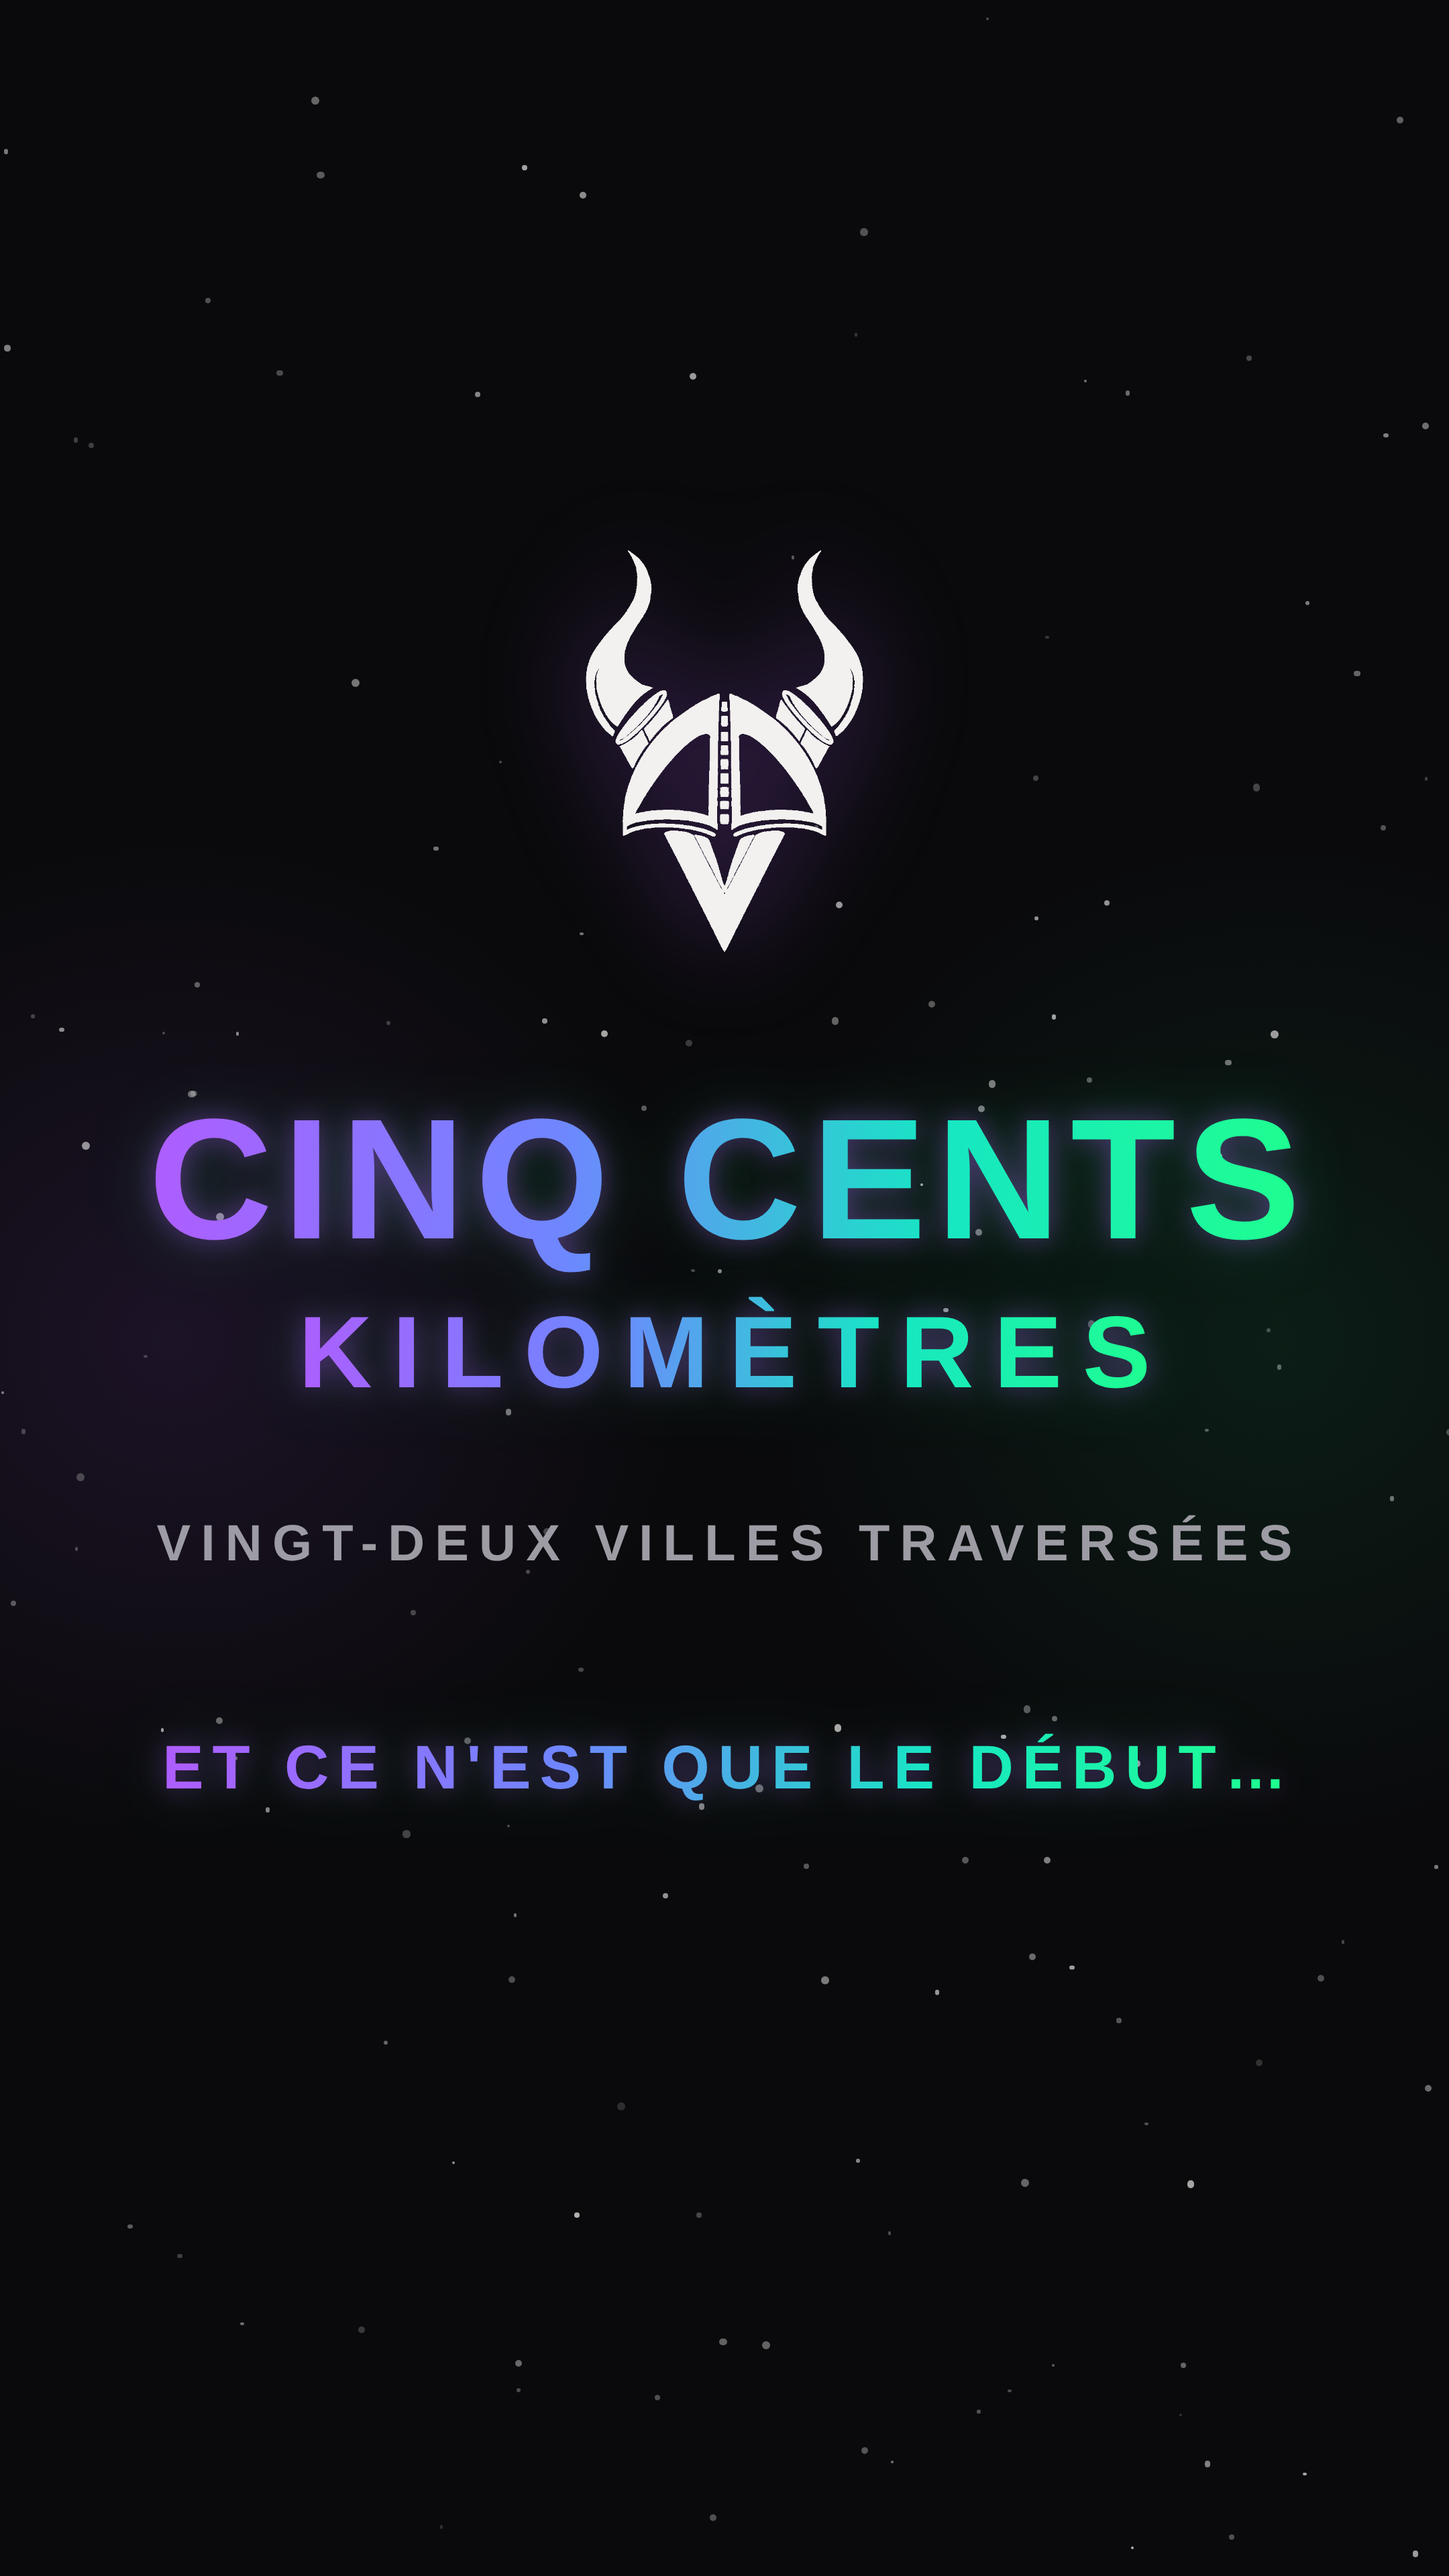
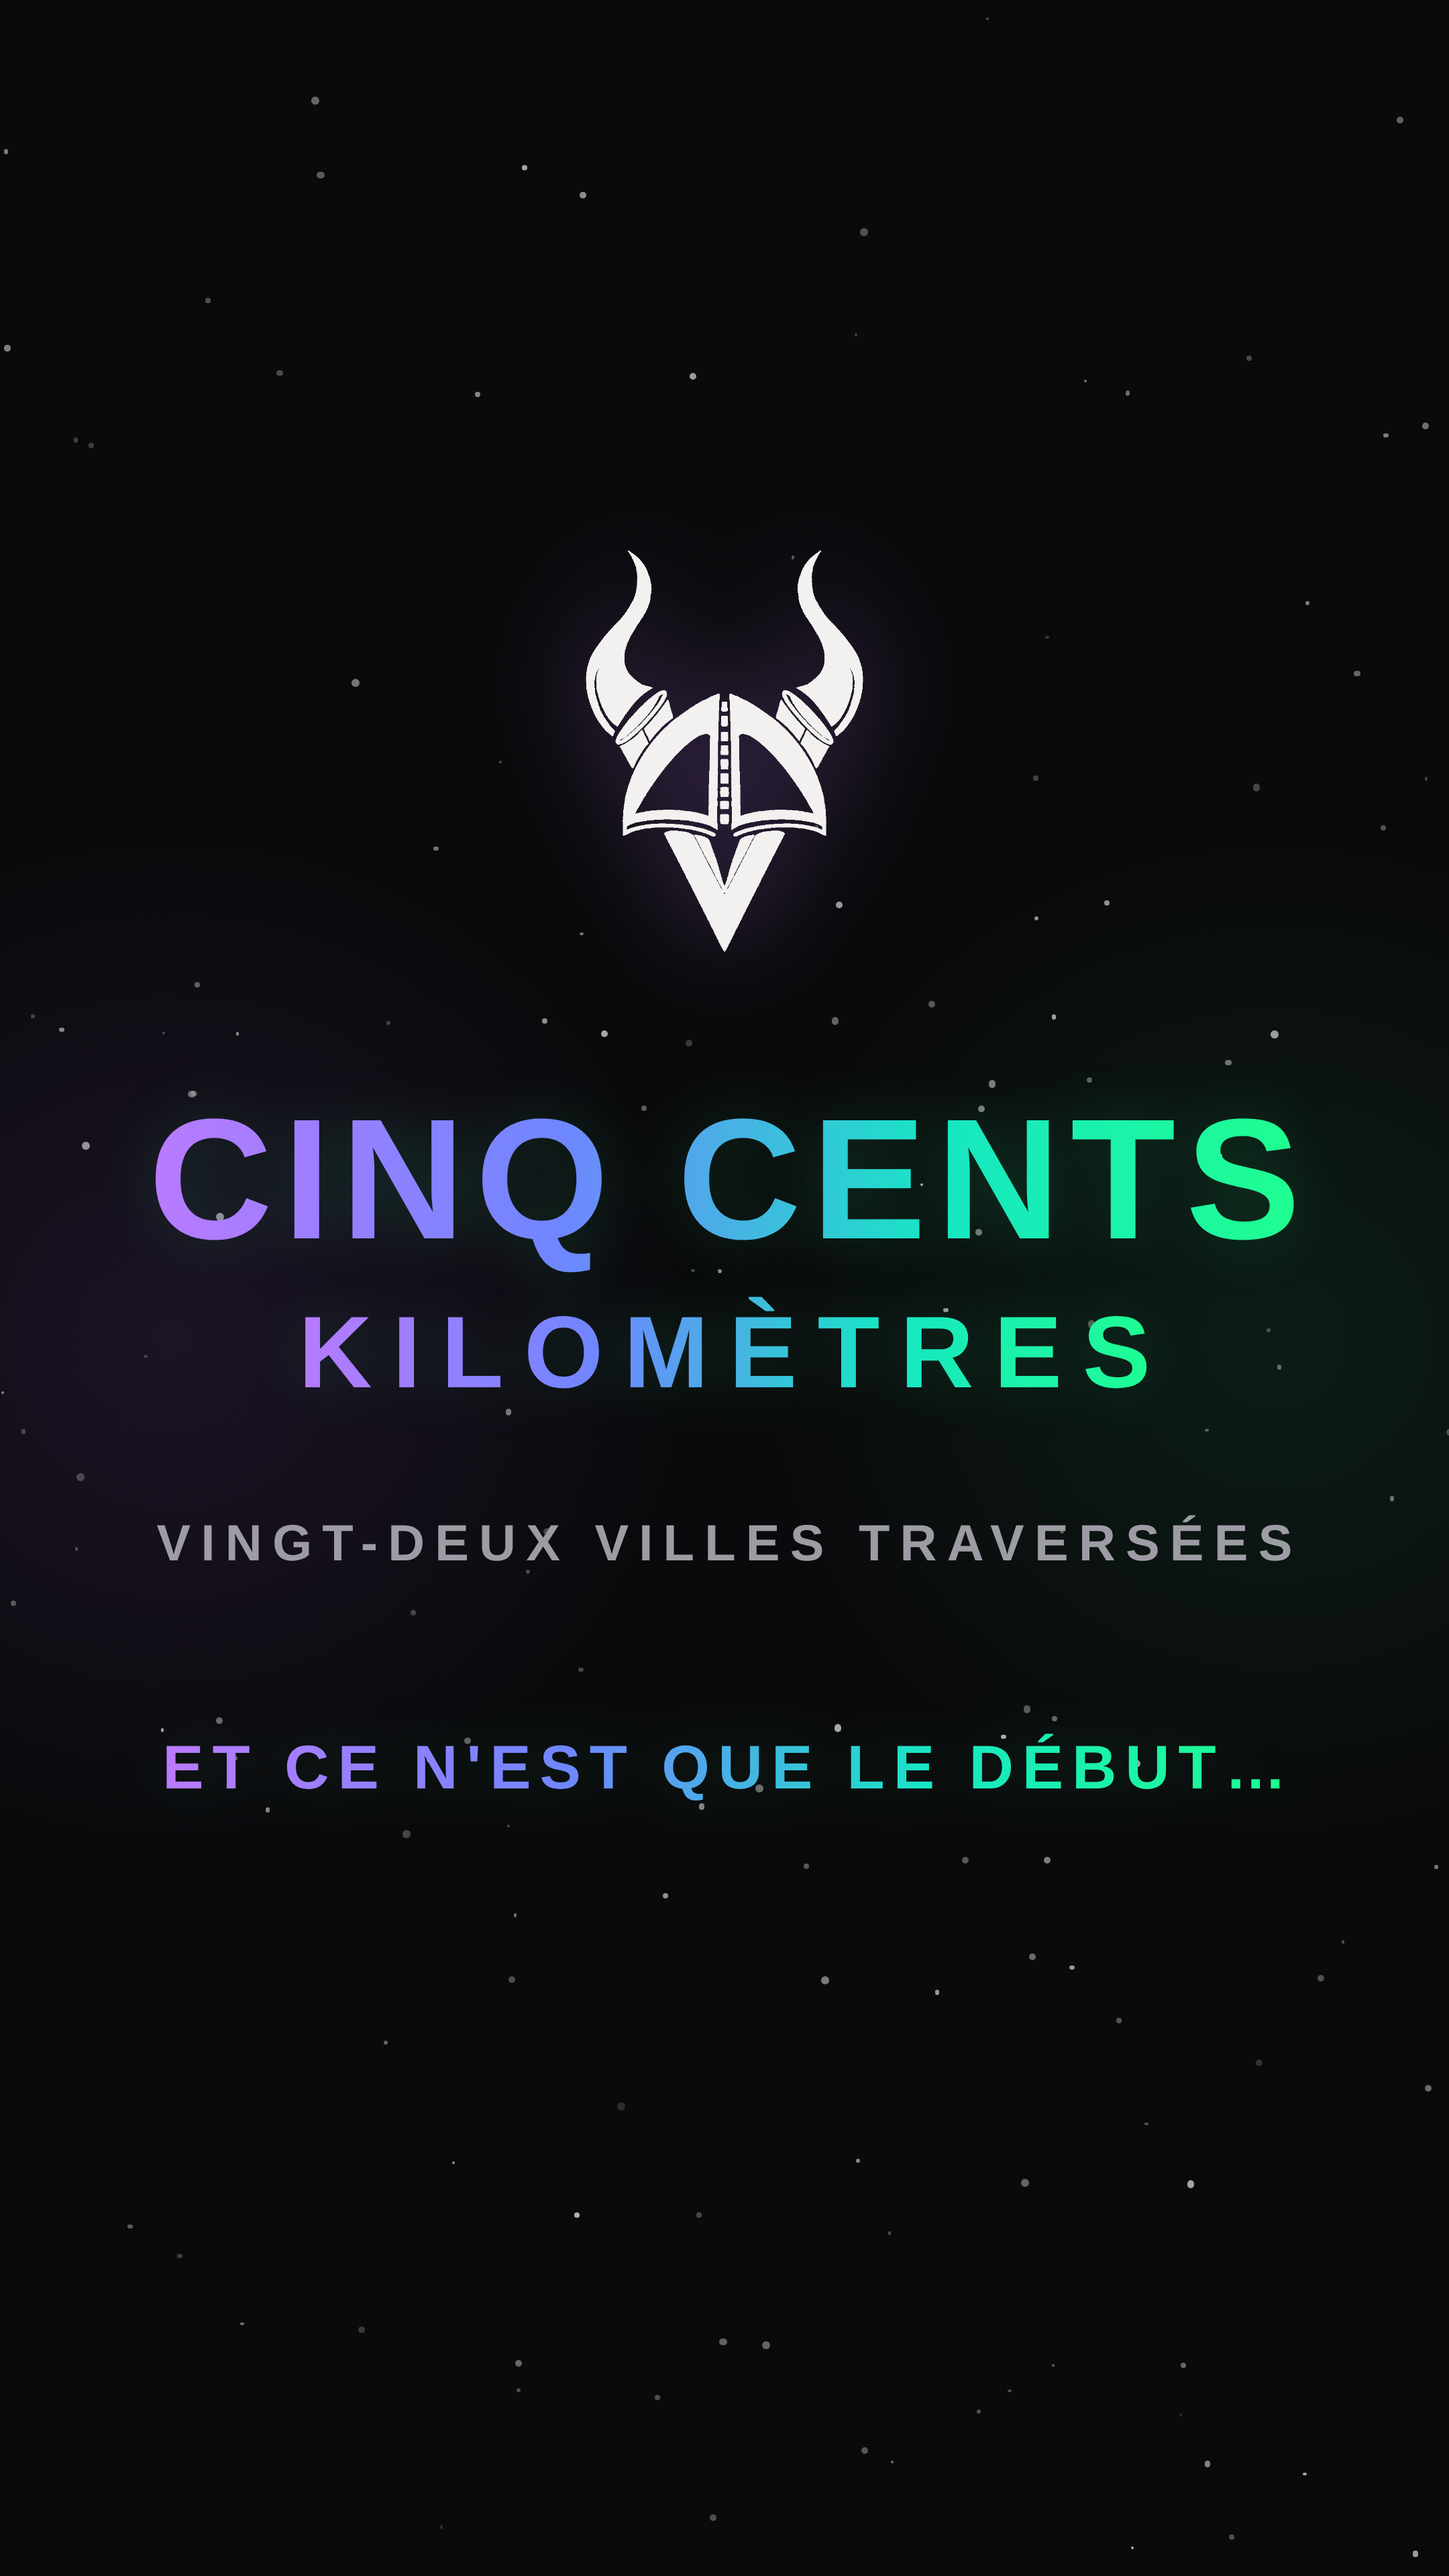
Page bilan : bords du cote violet nets (plus de halo violet autour des lettres, violet plus clair)
Claude-Session: https://claude.ai/code/session_012rUB3CgGQKWMyg8f7W5ij6

diff --git a/bande-annonce/bilan.html b/bande-annonce/bilan.html
@@ -2,14 +2,14 @@
 <meta name="robots" content="noindex">
 <title>Devercinge — le bilan</title>
 <style>
-  :root{ --bg:#0a0a0c; --ink:#f2f1ef; --dim:#9d9ba3; --violet:#b05cff; --green:#1fff8e;   /* plus vifs que le violet et le vert du reste du site */ }
+  :root{ --bg:#0a0a0c; --ink:#f2f1ef; --dim:#9d9ba3; --violet:#bc7aff; --green:#1fff8e;   /* plus vifs que le violet et le vert du reste du site */ }
   *{ margin:0; padding:0; box-sizing:border-box; }
   html,body{ width:1080px; height:1920px; overflow:hidden; background:var(--bg); }
   body{ position:relative; font-family:'Liberation Sans','DejaVu Sans',sans-serif; color:var(--ink); }
   #stars{ position:absolute; inset:0; }
   #stars span{ position:absolute; background:var(--ink); border-radius:50%; }
   #logo{ position:absolute; left:50%; top:560px; width:230px; transform:translate(-50%,-50%);
-         filter:drop-shadow(0 0 40px rgba(176,92,255,.35)); }
+         filter:drop-shadow(0 0 40px rgba(188,122,255,.35)); }
   .bloc{ position:absolute; left:0; right:0; text-align:center; font-weight:700;
          text-transform:uppercase; white-space:nowrap; }
   /* Une lueur colorée derrière les mots : le violet à gauche, le vert à droite. */
@@ -20,7 +20,7 @@
   /* La boîte épouse le texte : le dégradé va du violet au vert sur les mots eux-mêmes. */
   .degrade{ left:50%; right:auto; width:max-content; transform:translateX(-50%);
             background:linear-gradient(90deg,var(--violet) 0%,#6f86ff 36%,#17e6c4 68%,var(--green) 100%);
-            filter:drop-shadow(0 0 10px rgba(176,92,255,.40)) drop-shadow(0 0 24px rgba(31,255,142,.18));
+            filter:drop-shadow(0 0 22px rgba(31,255,142,.16));
             -webkit-background-clip:text; background-clip:text;
             -webkit-text-fill-color:transparent; }
   #nb{ top:810px; font-size:128px; letter-spacing:.06em; padding-left:.06em; line-height:1.1; }
